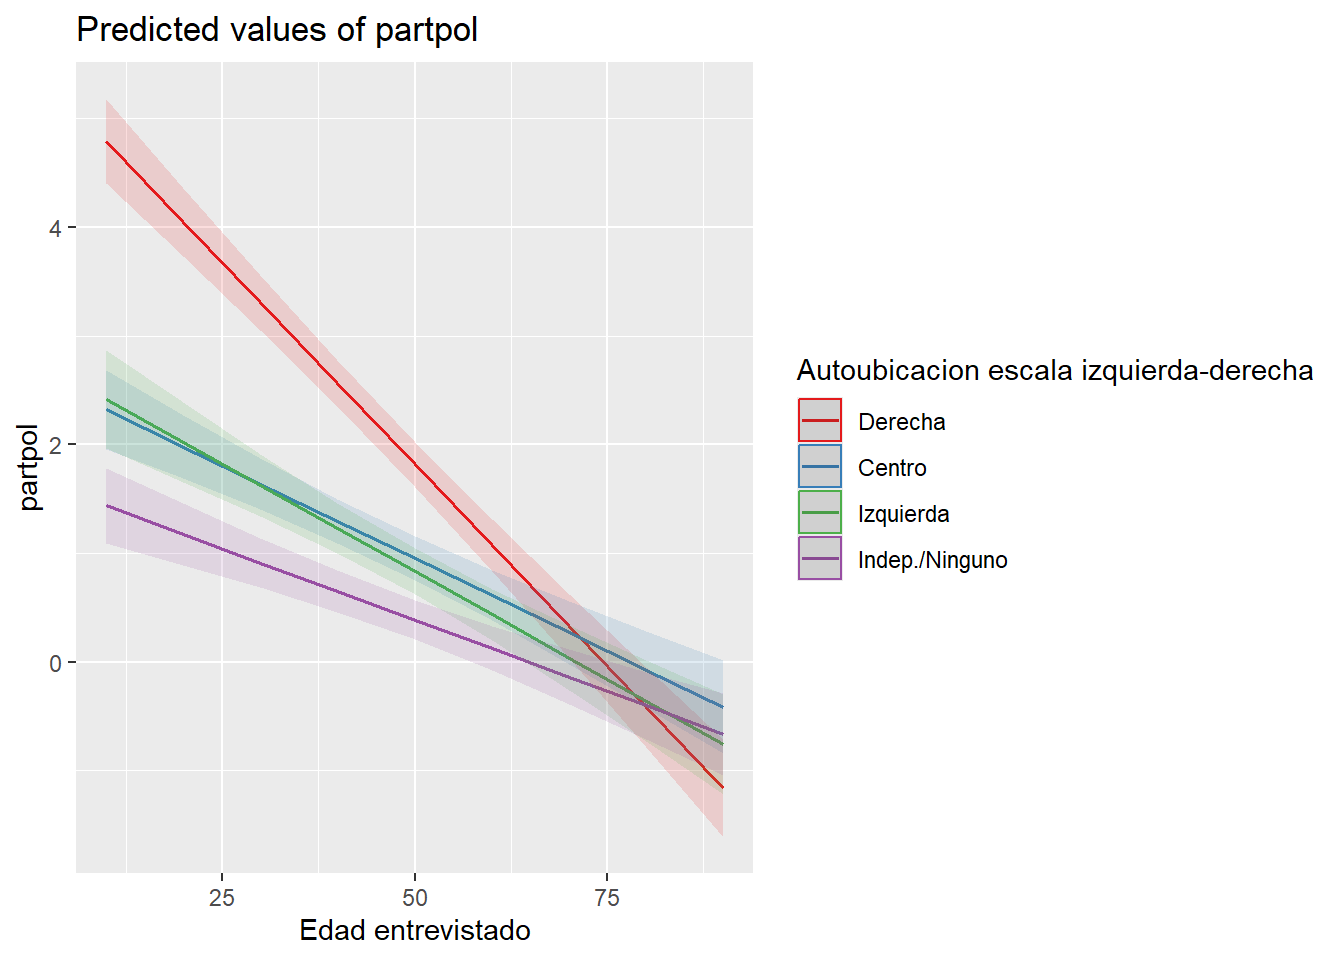
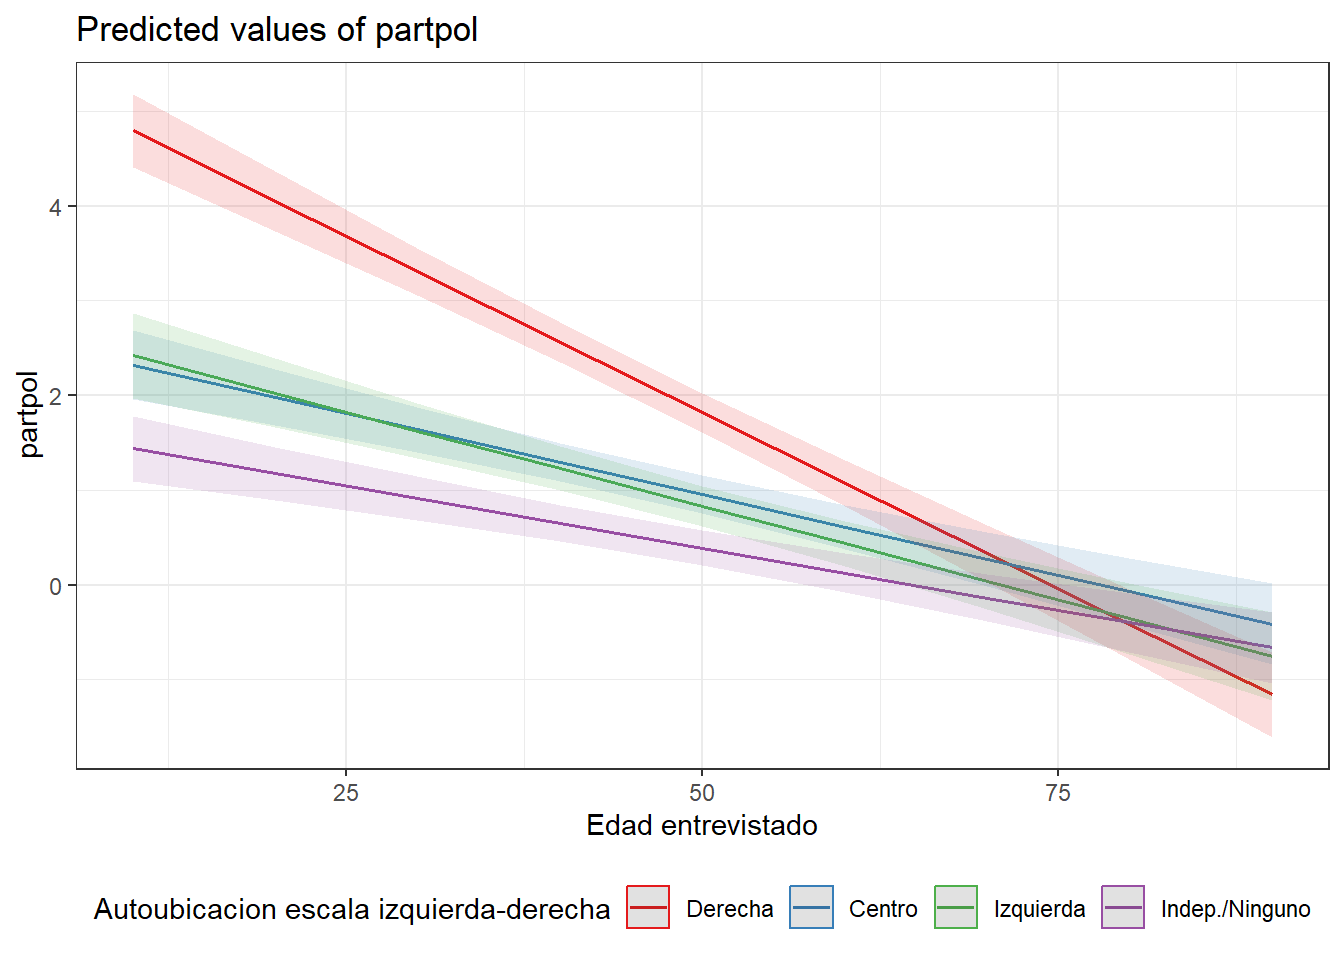
fixed practico

diff --git a/docs/assignment/08-practico.html b/docs/assignment/08-practico.html
@@ -2213,7 +2213,9 @@ Num. obs.
 
 <p>En comparación con las personas de Derecha, el efecto negativo de la edad no es tan pronunciado en personas de Centro, Izquierda o independientes.</p>
 <div class="cell">
-<div class="sourceCode cell-code" id="cb32"><pre class="sourceCode r code-with-copy"><code class="sourceCode r"><span id="cb32-1"><a href="#cb32-1" aria-hidden="true" tabindex="-1"></a>sjPlot<span class="sc">::</span><span class="fu">plot_model</span>(fit08, <span class="at">type=</span><span class="st">"int"</span>)</span></code><button title="Copiar al portapapeles" class="code-copy-button"><i class="bi"></i></button></pre></div>
+<div class="sourceCode cell-code" id="cb32"><pre class="sourceCode r code-with-copy"><code class="sourceCode r"><span id="cb32-1"><a href="#cb32-1" aria-hidden="true" tabindex="-1"></a>sjPlot<span class="sc">::</span><span class="fu">plot_model</span>(fit08, <span class="at">type =</span> <span class="st">"int"</span>) <span class="sc">+</span></span>
+<span id="cb32-2"><a href="#cb32-2" aria-hidden="true" tabindex="-1"></a>  <span class="fu">theme_bw</span>() <span class="sc">+</span></span>
+<span id="cb32-3"><a href="#cb32-3" aria-hidden="true" tabindex="-1"></a>  <span class="fu">theme</span>(<span class="at">legend.position =</span> <span class="st">"bottom"</span>)</span></code><button title="Copiar al portapapeles" class="code-copy-button"><i class="bi"></i></button></pre></div>
 <div class="cell-output-display">
 <div>
 <figure class="figure">
